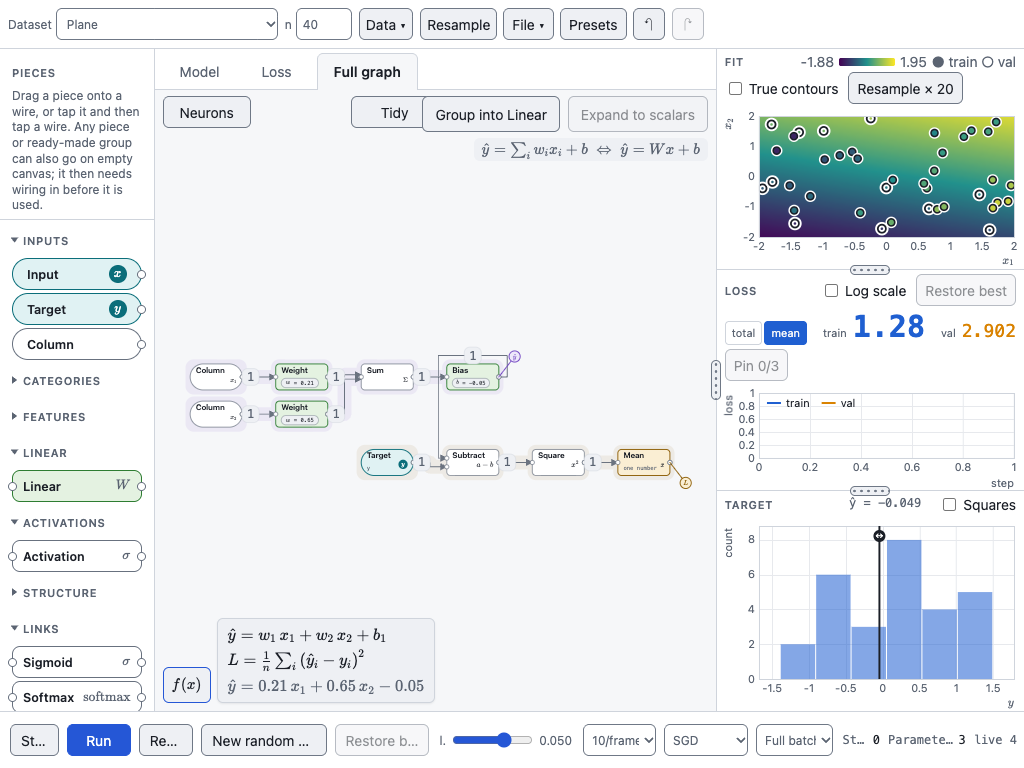
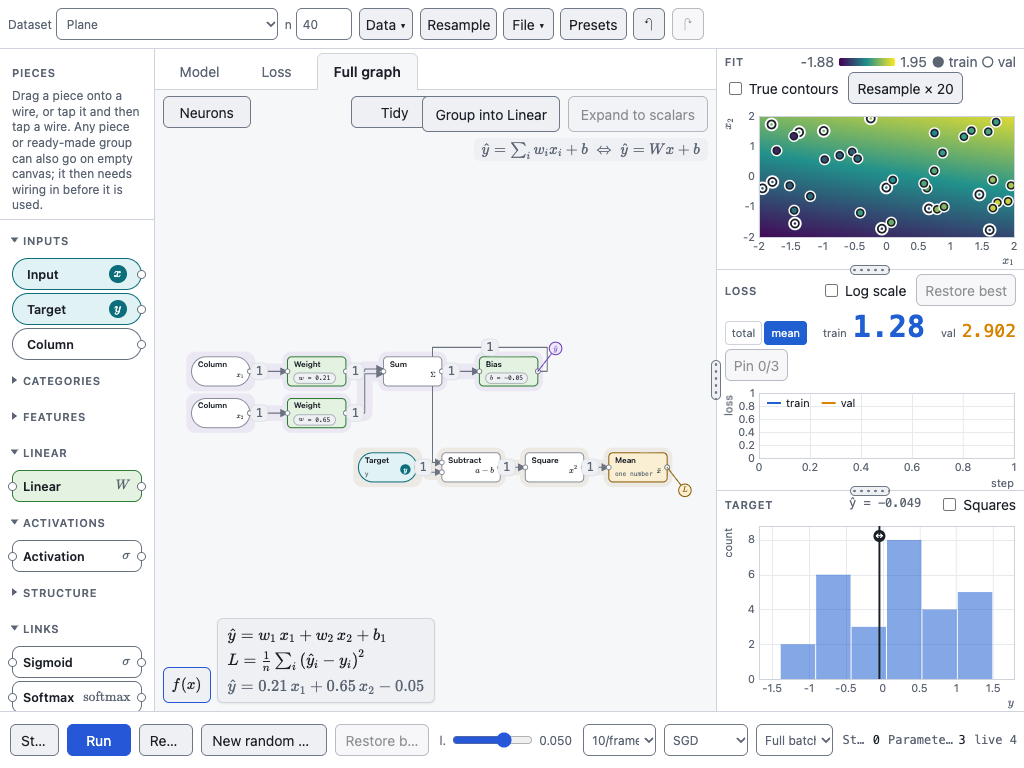
tinker-g3w: retune scalar preset loss row for Weight boxes; screenshots

Changed region(s): [[0.1875, 0.4375, 0.5625, 0.5625], [0.3438, 0.5625, 0.6875, 0.6562]]

diff --git a/CONTRACTS.md b/CONTRACTS.md
@@ -685,7 +685,7 @@ A file with `title`, `prompt`, `instructions`, `locked` or `show` is a Preset. S
 
 Saved params whose shapes do not match the graph are dropped with a notice, not an error. Bundled presets live in `web/src/presets/*.json` (`linear`, `logistic`, `sine`, `xor`, `skip`, `softmax`, `scalar`, `mlp`, `iris`, `intercept-prob`, `intercept-mean`, `lecture1-stage0` to `lecture1-stage5`; a preset that names a real set loads the set's rows first, see section 6); `?preset=<name>` loads a bundled preset on start, and a preset file can also be opened through Load.
 
-Default start (tinker-9io.8): `initialGraph()` (web `state/graphSlice.ts`) is the bundled `scalar` preset (`presets/scalar.json`): Columns `x1`, `x2` -> Weights `w1`, `w2` (boxes) -> `sum` -> `bias` (ŷ) -> squared-error group `diff`/`err`/`loss` (L) on the `plane` dataset. Its loss row is placed by hand with `positions` (a second row under the Sum and Bias) so the whole drawing fits at names >= 8 px on the narrowest s10 viewport (1024x768 touch); keep it that way when editing the preset. The former default is the bundled `mlp` preset (small ReLU network on `sine`). Saved params whose shapes do not match the graph are dropped with a notice, not an error. Bundled presets live in `web/src/presets/*.json`; `?preset=<name>` loads a bundled preset on start, and a preset file can also be opened through Load.
+Default start (tinker-9io.8): `initialGraph()` (web `state/graphSlice.ts`) is the bundled `scalar` preset (`presets/scalar.json`): Columns `x1`, `x2` -> Weights `w1`, `w2` (boxes) -> `sum` -> `bias` (ŷ) -> squared-error group `diff`/`err`/`loss` (L) on the `plane` dataset. Its loss row is placed by hand with `positions` (a second row from under the Sum to under the Bias, at a 160-unit pitch) so the whole drawing fits at names >= 8 px on the narrowest s10 viewport (1024x768 touch); keep it that way when editing the preset. The former default is the bundled `mlp` preset (small ReLU network on `sine`). Saved params whose shapes do not match the graph are dropped with a notice, not an error. Bundled presets live in `web/src/presets/*.json`; `?preset=<name>` loads a bundled preset on start, and a preset file can also be opened through Load.
 
 **Authoring `params` by hand.** `params` maps node id to its tensors: `{ "lin1": { "W": [...], "b": [...] } }` (W row-major [in, out]). A Weight (`scalew`) or a Bias (`bias`) also takes a plain number, which `parseFile` turns into the list form (`"w1": 0.5` is `{ "W": [0.5] }`, `"b": 0` is `{ "b": [0] }`); Save keeps writing the list form. `parseFile` fails with one sentence for a number on an unknown node, on a piece other than Weight or Bias, or a non-finite number. List-form entries that do not fit the graph are still dropped with a notice. Example (every learner starts at w1 = 0, w2 = 0, b = 0.5; Reset returns there):
 
